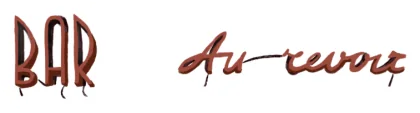
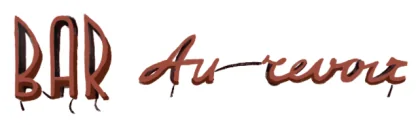
Stickers: BAR closer to Au revoir
Claude-Session: https://claude.ai/code/session_01VvB7EvWoyHYo4SQM26PhLu

Changed region(s): [[0.031, 0.1062, 0.2786, 0.9027], [0.3095, 0.2655, 0.9905, 0.7699]]

diff --git a/index.html b/index.html
@@ -811,7 +811,7 @@ document.querySelectorAll('a.logo').forEach(function(a){a.addEventListener('clic
 
 
 (function(){var pile=document.getElementById('stkPile');if(!pile)return;
-  var STK=[["riviera", 380, 157, "Riviera"], ["ariston", 380, 132, "Ζαχαροπλαστείον Άριστον"], ["rocky-video", 124, 380, "Rocky Video"], ["bar-au-revoir", 420, 113, "Bar Au revoir"], ["keranis", 380, 139, "Κεράνης"], ["titania", 110, 380, "Σινέ Τιτάνια"], ["hotel-orion", 380, 271, "Hotel Orion"], ["cd-zacharias", 187, 379, "CD Ζαχαρίας δίσκοι"], ["internet", 331, 216, "Internet"], ["rex", 380, 238, "Rex"], ["dexameni", 379, 101, "Cine Δεξαμενή"], ["kafe-bar", 380, 134, "Καφέ μπαρ"], ["palace", 380, 104, "Palace cinema"], ["victoria", 380, 179, "Βικτώρια"], ["flery", 106, 380, "Σινέ Φλερύ"], ["raptiki", 208, 240, "Υψηλή ραπτική"], ["alma", 154, 379, "Σινέ Άλμα"], ["athinaikon", 380, 129, "Cine Αθηναϊκόν"], ["cinemania", 380, 125, "Σινεμανία"], ["videodromio", 380, 168, "Βιντεοδρόμιο"], ["ekran", 380, 277, "Εκράν"], ["olympia", 380, 157, "Ολύμπια"], ["propo", 303, 180, "ΠΡΟ-ΠΟ"], ["casa-romantica", 380, 67, "Casa Romantica"]];
+  var STK=[["riviera", 380, 157, "Riviera"], ["ariston", 380, 132, "Ζαχαροπλαστείον Άριστον"], ["rocky-video", 124, 380, "Rocky Video"], ["bar-au-revoir", 420, 128, "Bar Au revoir"], ["keranis", 380, 139, "Κεράνης"], ["titania", 110, 380, "Σινέ Τιτάνια"], ["hotel-orion", 380, 271, "Hotel Orion"], ["cd-zacharias", 187, 379, "CD Ζαχαρίας δίσκοι"], ["internet", 331, 216, "Internet"], ["rex", 380, 238, "Rex"], ["dexameni", 379, 101, "Cine Δεξαμενή"], ["kafe-bar", 380, 134, "Καφέ μπαρ"], ["palace", 380, 104, "Palace cinema"], ["victoria", 380, 179, "Βικτώρια"], ["flery", 106, 380, "Σινέ Φλερύ"], ["raptiki", 208, 240, "Υψηλή ραπτική"], ["alma", 154, 379, "Σινέ Άλμα"], ["athinaikon", 380, 129, "Cine Αθηναϊκόν"], ["cinemania", 380, 125, "Σινεμανία"], ["videodromio", 380, 168, "Βιντεοδρόμιο"], ["ekran", 380, 277, "Εκράν"], ["olympia", 380, 157, "Ολύμπια"], ["propo", 303, 180, "ΠΡΟ-ΠΟ"], ["casa-romantica", 380, 67, "Casa Romantica"]];
   var reduce=window.matchMedia&&matchMedia('(prefers-reduced-motion: reduce)').matches;
   var touch=window.matchMedia&&matchMedia('(hover: none)').matches;
   var hint=document.getElementById('stkHint');if(touch&&hint)hint.textContent='Tap a sticker to bring it to the top.';
